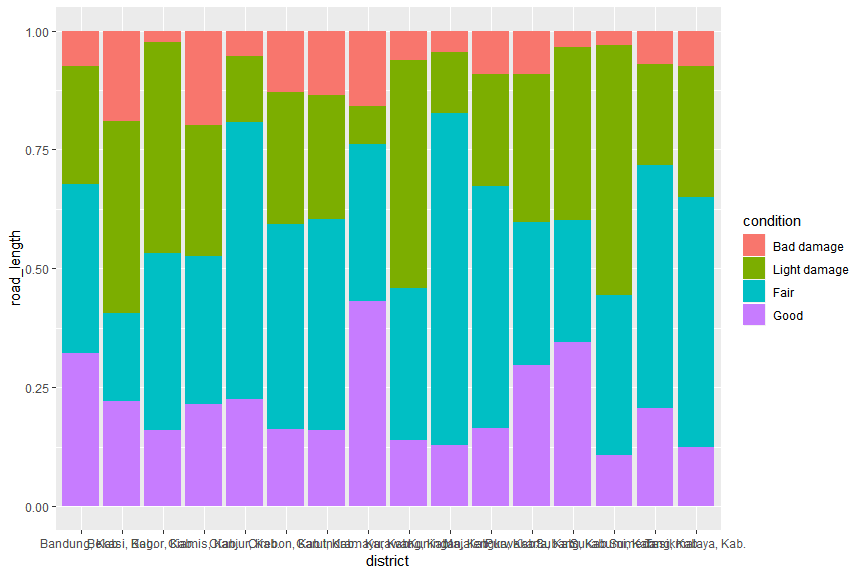
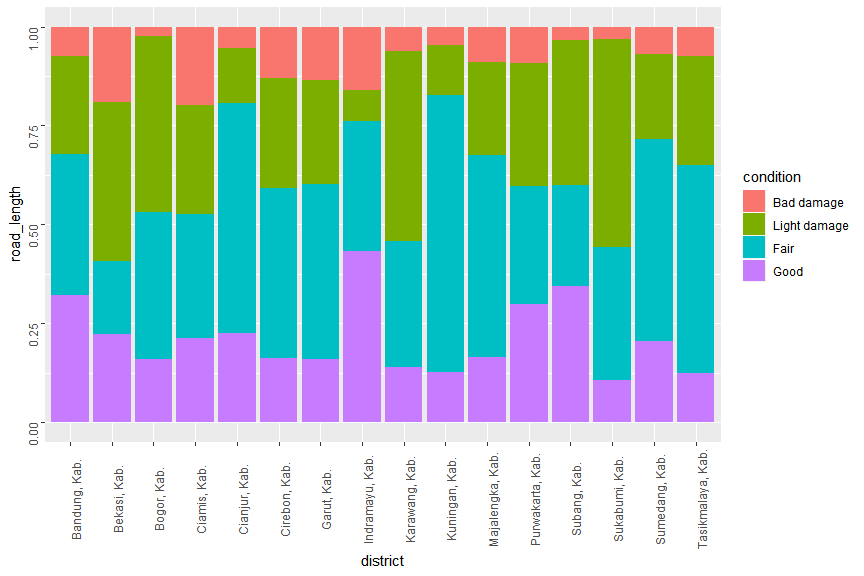
membuat grafik verse 2

diff --git a/vignettes/003_membuat-grafik.md b/vignettes/003_membuat-grafik.md
@@ -316,8 +316,7 @@ Selanjutnya kita akan membuat grafik untuk mengetahui pertumbuhan GDP
 per tahun.
 
 Sebuah grafik yang dibuat menggunakan paket ggplot2 terdiri atas
-*layers* dari elemen-elemen grafik
-tersebut.
+*layers* dari elemen-elemen grafik tersebut.
 
 ``` r
 ggplot(gdp_id)
@@ -331,8 +330,7 @@ digambarkan dalam grafik. Pendefinisian ini dilakukan dalam komponen
 *aesthetic mapping* (`aes()`). Kita ingin menginvestigasi pertumbuhan
 GDP total dari tahun ke tahun. Untuk itu, kita mendefinisikan `year` di
 sumbu x dan `total_gdp_including_oil_and_gas` di sumbu y. Ubahlah
-"\_\_\_" di bawah dengan ekspresi yang
-sesuai.
+"\_\_\_" di bawah dengan ekspresi yang sesuai.
 
 ``` r
 ggplot(gdp_id, aes(x = year, y = total_gdp_including_oil_and_gas))
@@ -457,8 +455,7 @@ gdp_id %>%
 Di bagian selanjutnya, kita akan mempelajari kondisi jalan di Provinsi
 Jawa Barat pada tahun 2000. Untuk melakukannya, pertama-tama kita harus
 mempersiapakan data yang didapat dari dataset indodapoer untuk
-kota/kabupaten di Jawa
-Barat.
+kota/kabupaten di Jawa Barat.
 
 ``` r
 jabar <- c("Bogor, Kab.", "Sukabumi, Kab.", "Cianjur, Kab.", "Bandung, Kab.", "Garut, Kab.", "Tasikmalaya, Kab.", "Ciamis, Kab.", "Kuningan, Kab.", "Cirebon, Kab.", "Majalengka, Kab.", "Sumedang, Kab.", "Indramayu, Kab.", "Subang, Kab.", "Purwakarta, Kab.", "Karawang, Kab.", "Bekasi, Kab.", "Bandung Barat, Kab.", "Pangandaran, Kab.", "Bogor, Kota", "Sukabumi, Kota", "Bandung, Kota", "Cirebon, Kota", "Bekasi, Kota", "Depok, Kota", "Cimahi, Kota", "Tasikmalaya, Kota", "Banjar, Kota")
@@ -514,49 +511,55 @@ Kita juga dapat membuat *bar plot* untuk keempat kondisi jalan di tiap
 kota/kabupaten dengan membuat *grouped bar plot* dan membedakan warna
 kolom-kolomnya. Untuk menghasilkan *grouped bar plot*, kita menggunakan
 argumen `position = "dodge"` pada fungsi `geom_col()`. Gunakan variabel
-`condition` untuk argumen
-`fill`.
+`condition` untuk argumen `fill`.
 
 ``` r
 ggplot(jabar_road, aes(x = district, y = road_length, fill = `condition`)) +
-  geom_col(position = "dodge")
+  geom_col(position = "dodge") +
+theme(
+      axis.text = element_text(angle = 90)
+      )
 ```
 
 <img src="003_membuat-grafik_files/figure-gfm/unnamed-chunk-13-1.png" style="display: block; margin: auto;" />
 
 Kita juga dapat membuat *stacked bar plot* untuk memberikan perhatian
 pada nilai total panjang jalan keempat kondisi. Kita cukup menghapus
-argumen `position = dodge` untuk
-melakukannya.
+argumen `position = dodge` untuk melakukannya.
 
 ``` r
 ggplot(jabar_road, aes(x = district, y = road_length, fill = condition)) +
-  geom_col()
+  geom_col() +
+  theme(
+      axis.text = element_text(angle = 90)
+      )
 ```
 
 <img src="003_membuat-grafik_files/figure-gfm/unnamed-chunk-14-1.png" style="display: block; margin: auto;" />
 
 Jika kita lebih tertarik pada kontribusi relatif dari masing-masing
 kondisi jalan, kita dapat menormalisasi nilai dengan total panjang jalan
-di tiap kota/kabupaten menggunakan argumen `position =
-fill`.
+di tiap kota/kabupaten menggunakan argumen `position = fill`.
 
 ``` r
 ggplot(jabar_road, aes(x = district, y = road_length, fill = condition)) + 
-geom_col(position = "fill")
+geom_col(position = "fill") + theme(
+      axis.text = element_text(angle = 90)
+      )
 ```
 
 <img src="003_membuat-grafik_files/figure-gfm/unnamed-chunk-15-1.png" style="display: block; margin: auto;" />
 
 Kita juga dapat mengganti label untuk sumbu y sehingga menampilkan
 persentase. Untuk itu, kita menambahkan fungsi dan argumen
-`scale_y_continuous(labels =
-scales::percent)`.
+`scale_y_continuous(labels = scales::percent)`.
 
 ``` r
 ggplot(jabar_road, aes(x = district, y = road_length, fill = condition)) +
   geom_col(position = "fill") +
-  scale_y_continuous(labels = scales::percent)
+  scale_y_continuous(labels = scales::percent) + theme(
+      axis.text = element_text(angle = 90)
+      )
 ```
 
 <img src="003_membuat-grafik_files/figure-gfm/unnamed-chunk-16-1.png" style="display: block; margin: auto;" />
